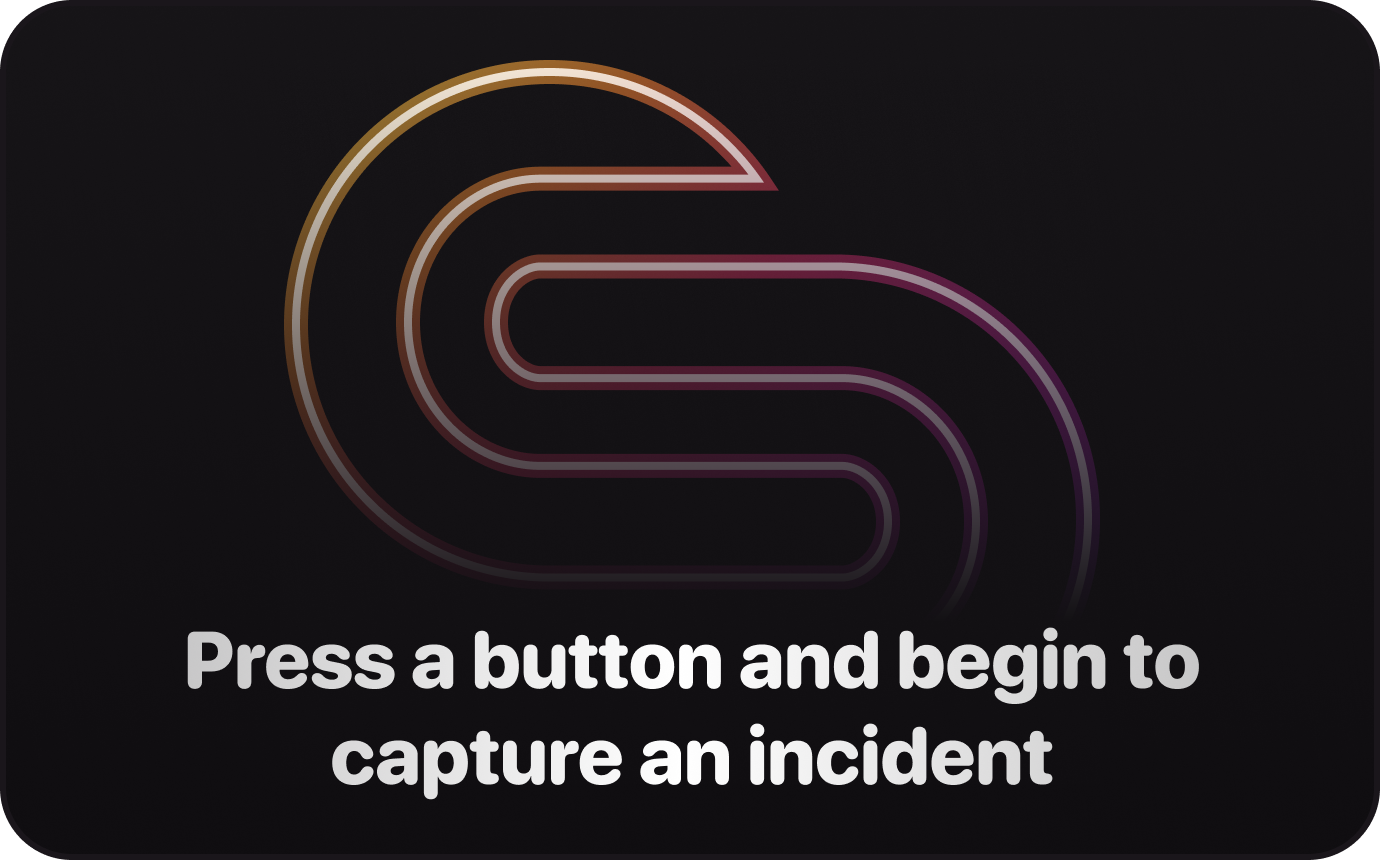
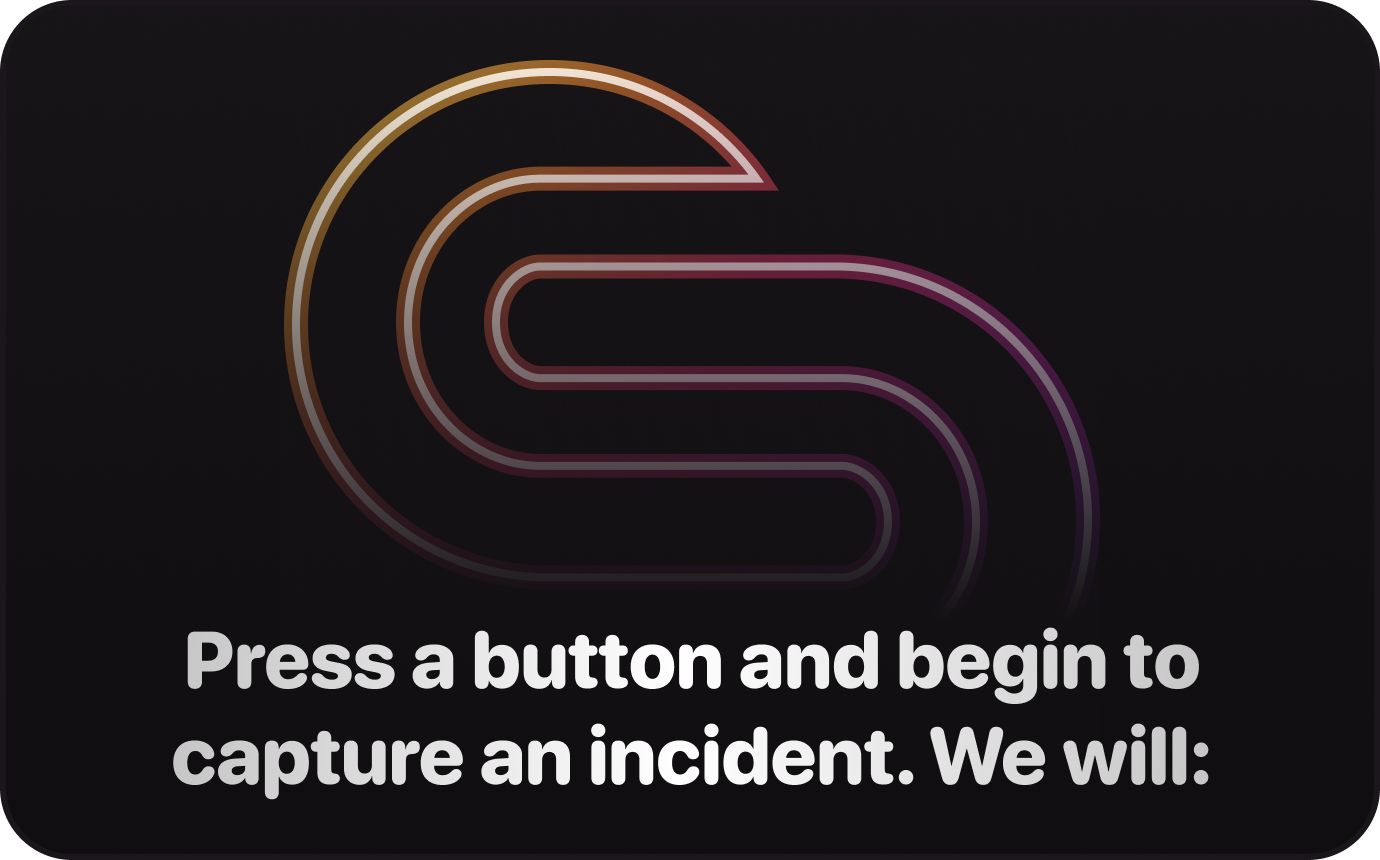
ft[assets] => 👨🎨 Change wording in tutorial

Changed region(s): [[0.1246, 0.8465, 0.8725, 0.9372]]

diff --git a/lib/screens/tutorial/tutorial.screen.dart b/lib/screens/tutorial/tutorial.screen.dart
@@ -13,7 +13,7 @@ class _TutorialScreenState extends State<TutorialScreen> {
 
   // General
   final Duration duration = Duration(milliseconds: 300);
-  final Duration consumeDuration = Duration(seconds: 2);
+  final Duration consumeDuration = Duration(milliseconds: 3000);
   final List<Curve> curves = [Curves.easeOut, Curves.easeInOut];
 
   // Specific
@@ -110,7 +110,7 @@ class _TutorialScreenState extends State<TutorialScreen> {
       streamContactPosition = streamContactPositions[1];
       streamContactOpacity = 1;
     });
-    await Future.delayed(duration);
+    await Future.delayed(duration + duration);
 
     // Wait
     await Future.delayed(consumeDuration);
